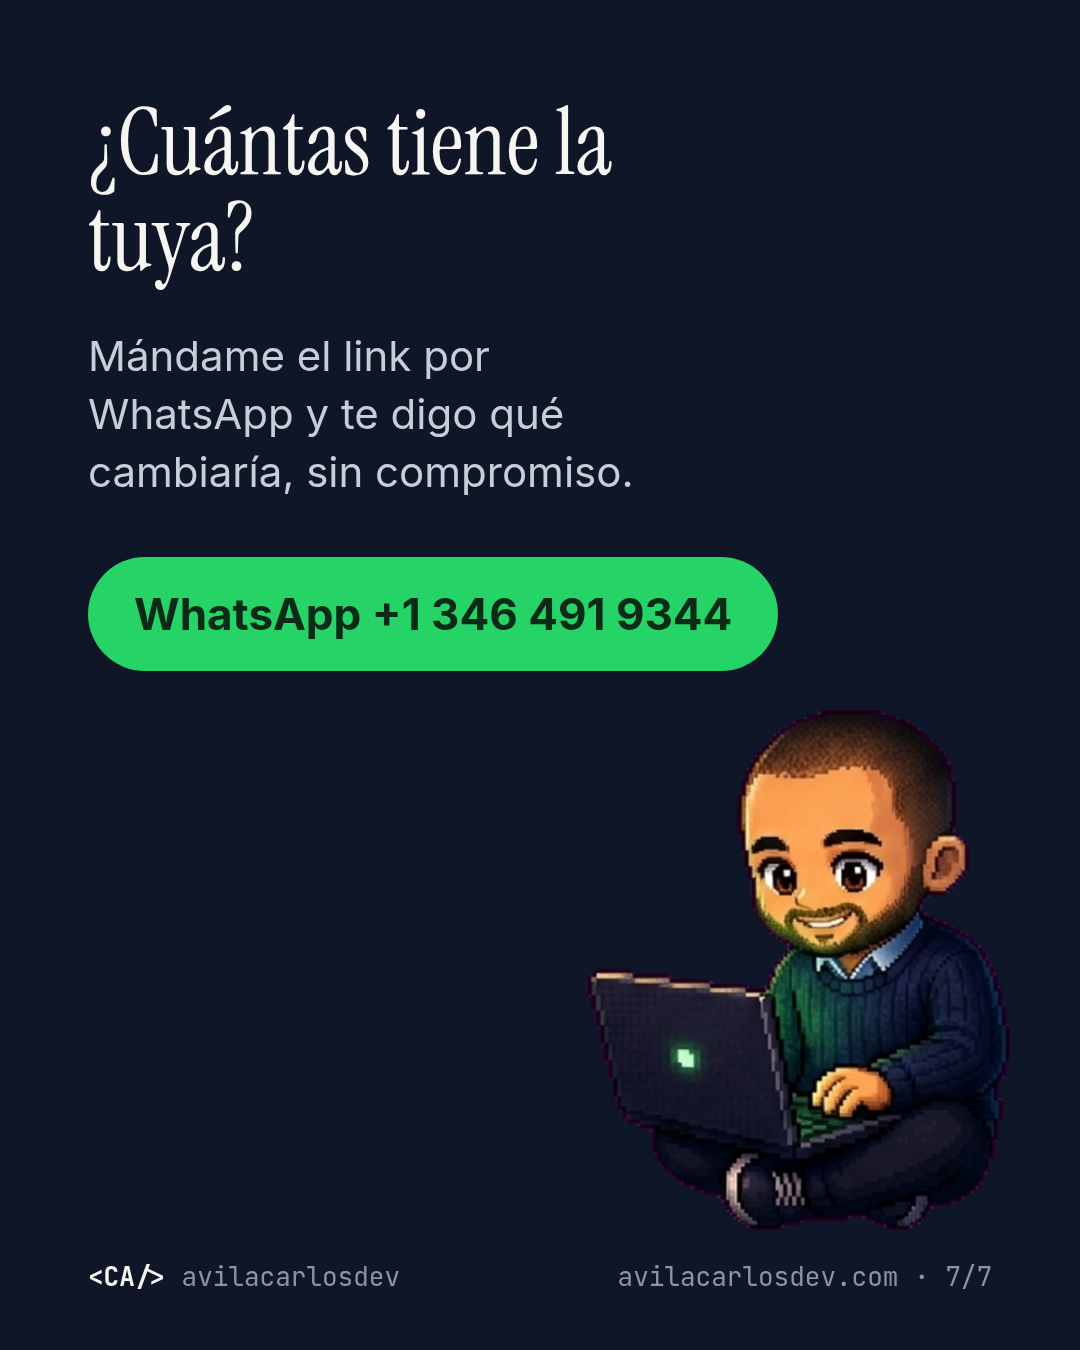
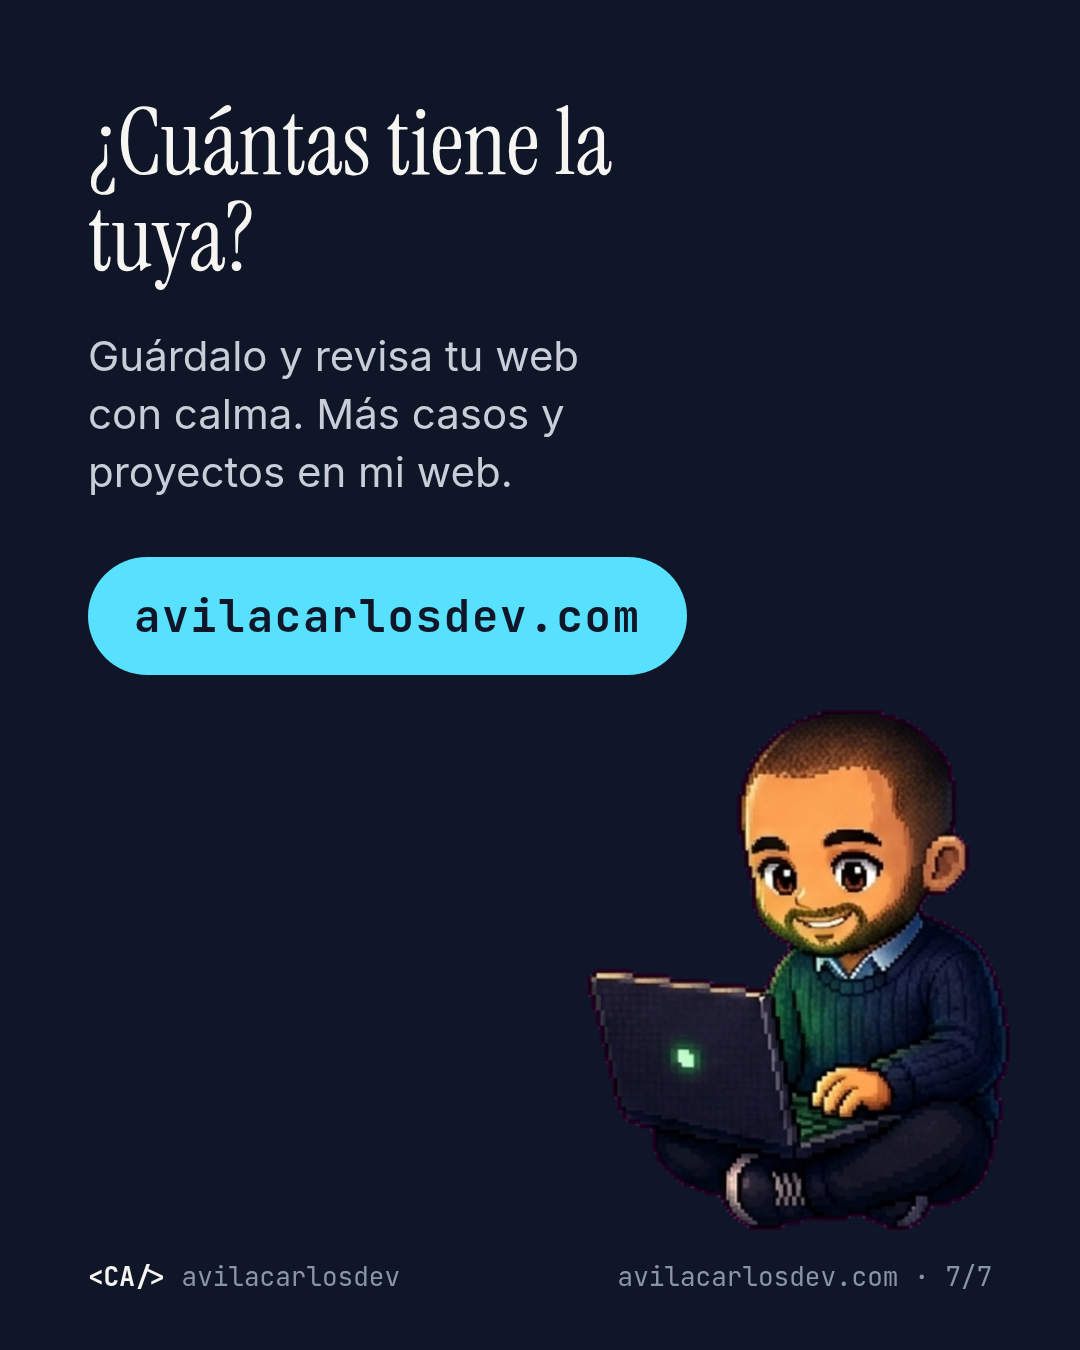
fix: cierres sin número de WhatsApp

Changed region(s): [[0.0611, 0.4044, 0.7333, 0.4978], [0.0611, 0.2489, 0.5806, 0.3733]]

diff --git a/generar.py b/generar.py
@@ -160,7 +160,7 @@ CARRUSELES = {
         punto(5, "El formulario se llena de spam",
               "Entre tanto mensaje basura, el cliente real se pierde.",
               "Protección antispam invisible: el cliente no tiene que resolver acertijos."),
-        cierre("¿Cuántas tiene la tuya?", "Mándame el link por WhatsApp y te digo qué cambiaría, sin compromiso."),
+        cierre("¿Cuántas tiene la tuya?", "Guárdalo y revisa tu web con calma. Más casos y proyectos en mi web.", chip="avilacarlosdev.com"),
     ],
     "03-demos": [
         portada("Webs de ejemplo",
@@ -198,7 +198,7 @@ CARRUSELES = {
             "Calculadora de IMC para los pacientes",
             "Migración de WordPress a React"]),
         cierre("¿Recibes clientes por WhatsApp?", "Este mismo flujo sirve para consultorios, abogados, talleres y cualquier negocio que agenda citas.",
-               mascota="cv-entrega.png", nota="Web en migración · próximo lanzamiento"),
+               mascota="cv-entrega.png", nota="Web en migración · próximo lanzamiento", chip="avilacarlosdev.com"),
     ],
     "06-homelab": [
         portada("Homelab · Punto Fijo, Venezuela",
